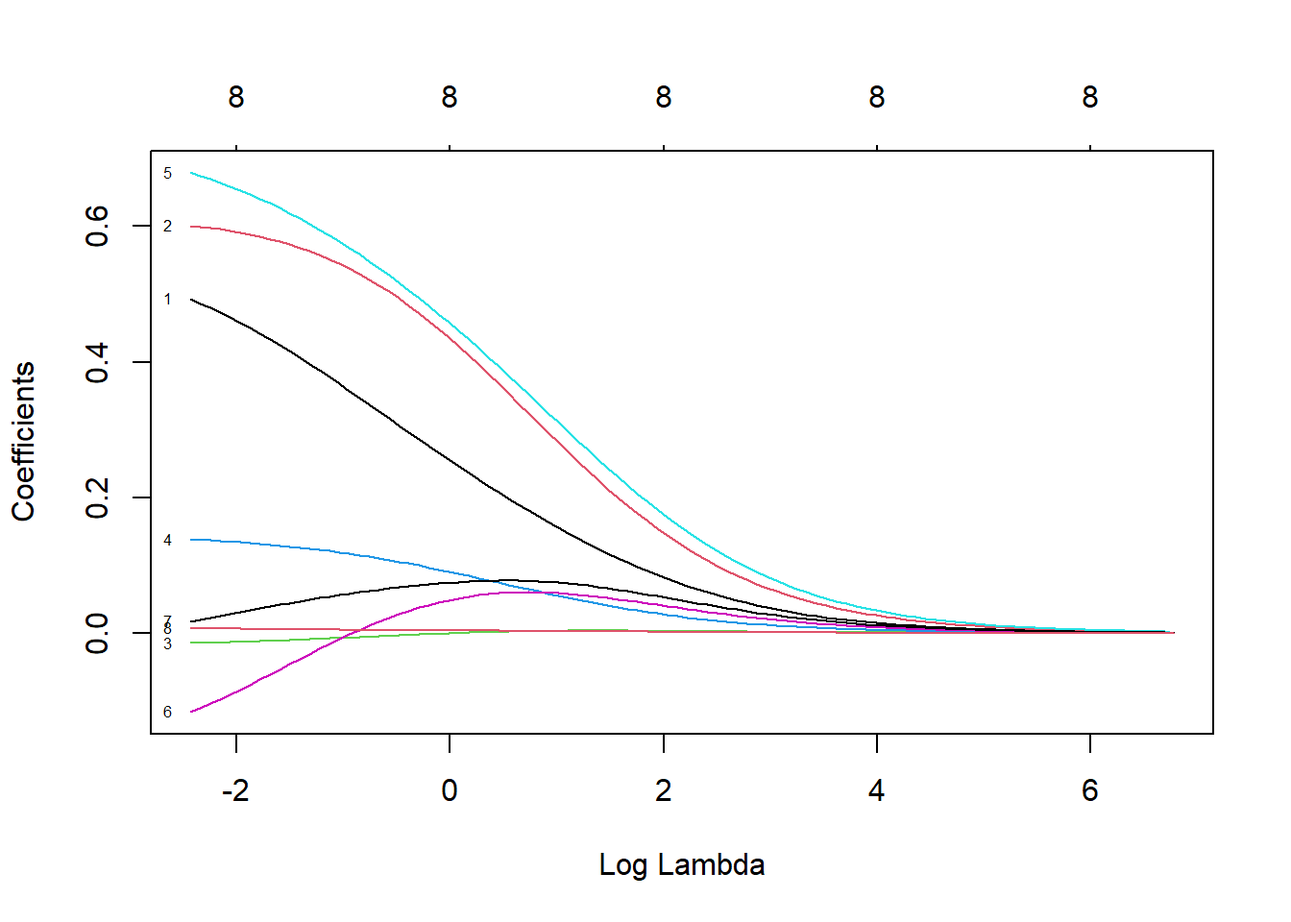
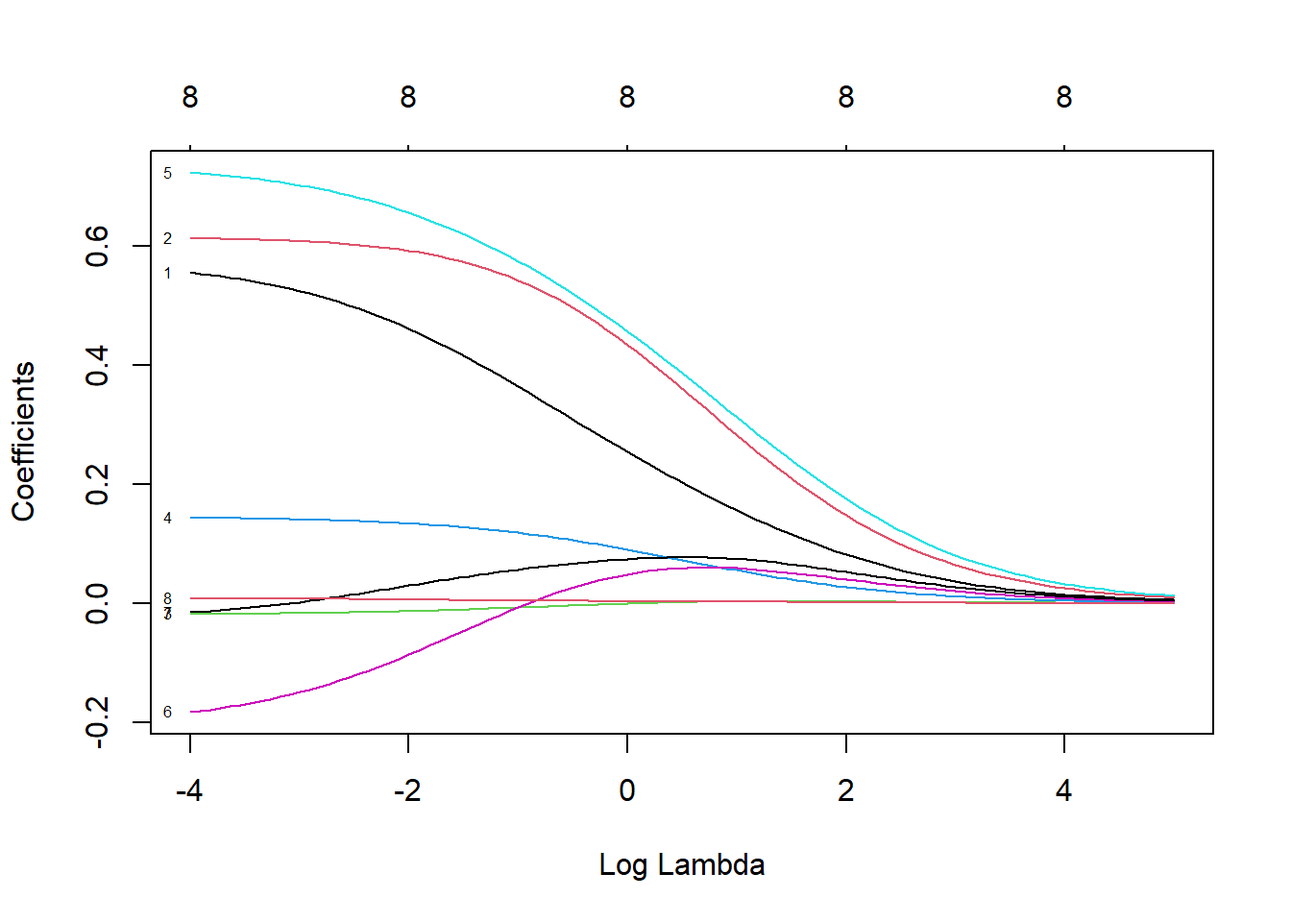
Updated chapter 3, sans 3.4

diff --git a/docs/linear-model-selection-regularisation.html b/docs/linear-model-selection-regularisation.html
@@ -264,7 +264,7 @@ RSS(\boldsymbol{\beta}) = \left(\boldsymbol{y} - \boldsymbol{X}\boldsymbol{\beta
 <ol start="2" style="list-style-type: decimal">
 <li>Stepwise selection</li>
 </ol>
-<p>Starting with either the null (forward stepwise) or saturated (backward stepwise) model, predictors are sequentially added or removed respectively according to some improvement metric. Once can also apply a hybrid method, which considers both adding and removing a variable at each step.</p>
+<p>Starting with either the null (forward stepwise) or saturated (backward stepwise) model, predictors are sequentially added or removed respectively according to some improvement metric. One can also apply a hybrid method, which considers both adding and removing a variable at each step.</p>
 <p>Typically, either Mallow’s <span class="math inline">\(C_p\)</span>, AIC, BIC, or adjusted <span class="math inline">\(R^2\)</span> is used for model comparison in subset selection.</p>
 <p>Because subset selection is a discrete process, with variables either retained or discarded, it often exhibits high variance, thereby failing to reduce the test MSE. <strong>Regularisation</strong> offers a more continuous, general-purpose and usually quicker method of controlling model complexity.</p>
 <p>Note that although the linear model is used here to illustrate the theory of regularisation, it can be applied to any parametric model.</p>
@@ -307,7 +307,7 @@ RSS(\lambda) = \left(\boldsymbol{y} - \boldsymbol{X}\boldsymbol{\beta} \right)&#
 <div id="example-2-prostate-cancer" class="section level3 hasAnchor" number="3.2.2">
 <h3><span class="header-section-number">3.2.2</span> Example 2 – Prostate Cancer<a href="linear-model-selection-regularisation.html#example-2-prostate-cancer" class="anchor-section" aria-label="Anchor link to header"></a></h3>
 <p>This dataset formed part of the now retired ElemStatLearn R package; it’s details can be found <a href="https://rdrr.io/cran/ElemStatLearn/man/prostate.html#heading-5">here</a>. The goal is to model the (log) prostate-specific antigen (lpsa) for men who were about to receive a radical prostatectomy, based on eigth clinical measurements. The data only contain 97 observations, 30 of which are set aside for testing purposes.</p>
-<p>Looking at the correlation between the features, we see that all the features are positively correlated with the response variable, ranging from weak to strong correlation. We also observe some strong correlation between features, which could be of concern for a regression model. <strong>Note</strong>! <em>svi</em> and <em>gleason</em> are actually binary and ordinal variables respectively, but we will treat them as numeric for the sake of simplicity in this illustration.</p>
+<p>Looking at the correlation between the features, we see that all the features are positively correlated with the response variable, ranging from weak to strong correlation. We also observe some strong correlation between features, which could be of concern for a regression model. <strong>Note</strong>! <span class="math inline">\(\texttt{svi}\)</span> and <span class="math inline">\(\texttt{gleason}\)</span> are actually binary and ordinal variables respectively, but we will treat them as numeric for the sake of simplicity in this illustration.</p>
 <div class="sourceCode" id="cb9"><pre class="sourceCode r"><code class="sourceCode r"><span id="cb9-1"><a href="linear-model-selection-regularisation.html#cb9-1" aria-hidden="true" tabindex="-1"></a><span class="fu">library</span>(corrplot) <span class="co">#For correlation plot</span></span>
 <span id="cb9-2"><a href="linear-model-selection-regularisation.html#cb9-2" aria-hidden="true" tabindex="-1"></a></span>
 <span id="cb9-3"><a href="linear-model-selection-regularisation.html#cb9-3" aria-hidden="true" tabindex="-1"></a>dat_pros <span class="ot">&lt;-</span> <span class="fu">read.csv</span>(<span class="st">&#39;data/prostate.csv&#39;</span>)</span>
@@ -317,8 +317,8 @@ RSS(\lambda) = \left(\boldsymbol{y} - \boldsymbol{X}\boldsymbol{\beta} \right)&#
 <span id="cb9-7"><a href="linear-model-selection-regularisation.html#cb9-7" aria-hidden="true" tabindex="-1"></a>test_pros <span class="ot">&lt;-</span> dat_pros[<span class="sc">!</span>dat_pros<span class="sc">$</span>train, <span class="sc">-</span><span class="dv">10</span>]</span>
 <span id="cb9-8"><a href="linear-model-selection-regularisation.html#cb9-8" aria-hidden="true" tabindex="-1"></a></span>
 <span id="cb9-9"><a href="linear-model-selection-regularisation.html#cb9-9" aria-hidden="true" tabindex="-1"></a><span class="fu">corrplot</span>(<span class="fu">cor</span>(train_pros), <span class="at">method =</span> <span class="st">&#39;number&#39;</span>, <span class="at">type =</span> <span class="st">&#39;upper&#39;</span>)</span></code></pre></div>
-<div class="figure" style="text-align: center"><span style="display:block;" id="fig:unnamed-chunk-7"></span>
-<img src="figs/unnamed-chunk-7-1.png" alt="Correlations of all variables in the prostate cancer data" width="672" />
+<div class="figure" style="text-align: center"><span style="display:block;" id="fig:unnamed-chunk-8"></span>
+<img src="figs/unnamed-chunk-8-1.png" alt="Correlations of all variables in the prostate cancer data" width="672" />
 <p class="caption">
 Figure 3.1: Correlations of all variables in the prostate cancer data
 </p>
@@ -340,7 +340,7 @@ Figure 3.1: Correlations of all variables in the prostate cancer data
 <span id="cb10-14"><a href="linear-model-selection-regularisation.html#cb10-14" aria-hidden="true" tabindex="-1"></a>  <span class="fu">kable</span>(<span class="at">digits =</span> <span class="dv">2</span>, <span class="at">caption =</span> <span class="st">&#39;Saturated linear model fitted to the prostate cancer dataset (features standardised)&#39;</span>)</span></code></pre></div>
 <table>
 <caption>
-<span id="tab:unnamed-chunk-8">Table 3.1: </span>Saturated linear model fitted to the prostate cancer dataset (features standardised)
+<span id="tab:unnamed-chunk-9">Table 3.1: </span>Saturated linear model fitted to the prostate cancer dataset (features standardised)
 </caption>
 <thead>
 <tr>
@@ -517,11 +517,12 @@ pgg45
 </tr>
 </tbody>
 </table>
-<p>The features <em>gleason</em>, <em>age</em>, and possibly <em>pgg45</em> and <em>lcp</em> are non-significant in this model, although note that these variables in particular were highly correlated with each other. This example also illustrates the adverse effect that this multicollinearity can have on a regression model. Even though <em>lcp</em> was observed to have a fairly strong positive linear relationship with the response variable (<span class="math inline">\(r = 0.49\)</span>, third highest of all features), the coefficient estimate is in fact <strong>negative</strong>, relatively significantly (p = 0.07)! Likewise, even though <em>age</em> is positively correlated with <em>lpsa</em> (<span class="math inline">\(r = 0.23\)</span>), its coefficient estimate is negative.</p>
+<p>The features <span class="math inline">\(\texttt{gleason}\)</span>, <span class="math inline">\(\texttt{age}\)</span>, and possibly <span class="math inline">\(\texttt{pgg45}\)</span> and <span class="math inline">\(\texttt{lcp}\)</span> are non-significant in this model, although note that these variables in particular were highly correlated with each other. This example also illustrates the adverse effect that this multicollinearity can have on a regression model. Even though <span class="math inline">\(\texttt{lcp}\)</span> was observed to have a fairly strong positive linear relationship with the response variable (<span class="math inline">\(r = 0.49\)</span>, third highest of all features), the coefficient estimate is in fact <strong>negative</strong>, relatively significantly (p = 0.07)! Likewise, even though <span class="math inline">\(\texttt{age}\)</span> is positively correlated with <span class="math inline">\(\texttt{lpsa}\)</span> (<span class="math inline">\(r = 0.23\)</span>), its coefficient estimate is negative.</p>
 <p>Let us now apply <span class="math inline">\(L_2\)</span> regularisation using the <code>glmnet</code> package in R. See section <a href="linear-model-selection-regularisation.html#elastic-net">3.3</a> for the discussion of the <span class="math inline">\(\alpha\)</span> parameter. For now, note that <span class="math inline">\(\alpha = 0\)</span> corresponds to ridge regression.</p>
 <div class="sourceCode" id="cb11"><pre class="sourceCode r"><code class="sourceCode r"><span id="cb11-1"><a href="linear-model-selection-regularisation.html#cb11-1" aria-hidden="true" tabindex="-1"></a><span class="fu">library</span>(glmnet)</span>
-<span id="cb11-2"><a href="linear-model-selection-regularisation.html#cb11-2" aria-hidden="true" tabindex="-1"></a>ridge <span class="ot">&lt;-</span> <span class="fu">glmnet</span>(x, y, <span class="at">alpha =</span> <span class="dv">0</span>, <span class="at">standardize =</span> T)</span>
-<span id="cb11-3"><a href="linear-model-selection-regularisation.html#cb11-3" aria-hidden="true" tabindex="-1"></a><span class="fu">plot</span>(ridge, <span class="at">xvar =</span> <span class="st">&#39;lambda&#39;</span>, <span class="at">label =</span> T)</span></code></pre></div>
+<span id="cb11-2"><a href="linear-model-selection-regularisation.html#cb11-2" aria-hidden="true" tabindex="-1"></a>ridge <span class="ot">&lt;-</span> <span class="fu">glmnet</span>(x, y, <span class="at">alpha =</span> <span class="dv">0</span>, <span class="at">standardize =</span> T,</span>
+<span id="cb11-3"><a href="linear-model-selection-regularisation.html#cb11-3" aria-hidden="true" tabindex="-1"></a>                <span class="at">lambda =</span> <span class="fu">exp</span>(<span class="fu">seq</span>(<span class="sc">-</span><span class="dv">4</span>, <span class="dv">5</span>, <span class="at">length.out =</span> <span class="dv">100</span>)))</span>
+<span id="cb11-4"><a href="linear-model-selection-regularisation.html#cb11-4" aria-hidden="true" tabindex="-1"></a><span class="fu">plot</span>(ridge, <span class="at">xvar =</span> <span class="st">&#39;lambda&#39;</span>, <span class="at">label =</span> T)</span></code></pre></div>
 <div class="figure" style="text-align: center"><span style="display:block;" id="fig:ridge-coeffs"></span>
 <img src="figs/ridge-coeffs-1.png" alt="Coefficient profiles for ridge regression on the prostate cancer dataset" width="672" />
 <p class="caption">
@@ -529,7 +530,7 @@ Figure 3.2: Coefficient profiles for ridge regression on the prostate cancer dat
 </p>
 </div>
 <p>Here we see how the coefficients vary as <span class="math inline">\(\log(\lambda)\)</span> is increased, whilst the labels at the top indicate the number of nonzero coefficients for various values of <span class="math inline">\(\log(\lambda)\)</span>. Note that none of the coefficients actually equal zero, illustrating that ridge regression does not necessarily perform variable selection per se.</p>
-<p>In Figure <a href="linear-model-selection-regularisation.html#fig:ridge-coeffs">3.2</a> we observe that the initially negative coefficient for <em>lcp</em> <span class="math inline">\((\beta_6)\)</span> becomes both positive and more significant, relative to the other predictors. Therefore, the notion of “coefficients shrinking towards zero” is a slight misnomer, or perhaps an oversimplification of the effect <span class="math inline">\(L_2\)</span> regularisation has. Eventually, as <span class="math inline">\(\lambda \to \infty\)</span> (or, equivalently, <span class="math inline">\(\tau \to 0\)</span> as shown in <a href="linear-model-selection-regularisation.html#eq:bridget">(3.8)</a>), all coefficients will indeed be forced towards zero. However, the ideal model will usually correspond to a level of <span class="math inline">\(\lambda\)</span> that allows stronger predictors to be more prominent by diminishing the effect of their correlates.</p>
+<p>In Figure <a href="linear-model-selection-regularisation.html#fig:ridge-coeffs">3.2</a> we observe that the initially negative coefficient for <span class="math inline">\(\texttt{lcp}\)</span> <span class="math inline">\((\beta_6)\)</span> becomes both positive and more significant, relative to the other predictors. Therefore, the notion of “coefficients shrinking towards zero” is a slight misnomer, or perhaps an oversimplification of the effect <span class="math inline">\(L_2\)</span> regularisation has. Eventually, as <span class="math inline">\(\lambda \to \infty\)</span> (or, equivalently, <span class="math inline">\(\tau \to 0\)</span> as shown in <a href="linear-model-selection-regularisation.html#eq:bridget">(3.8)</a>), all coefficients will indeed be forced towards zero. However, the ideal model will usually correspond to a level of <span class="math inline">\(\lambda\)</span> that allows stronger predictors to be more prominent by diminishing the effect of their correlates.</p>
 <p>So, how do we determine the appropriate level of <span class="math inline">\(\lambda\)</span>? By viewing this tuning parameter as a proxy for complexity and applying the same approach as in Chapter 2, we can use CV with the MSE as loss function to identify optimal complexity.</p>
 <div class="sourceCode" id="cb12"><pre class="sourceCode r"><code class="sourceCode r"><span id="cb12-1"><a href="linear-model-selection-regularisation.html#cb12-1" aria-hidden="true" tabindex="-1"></a><span class="co">#Apply 10-fold CV</span></span>
 <span id="cb12-2"><a href="linear-model-selection-regularisation.html#cb12-2" aria-hidden="true" tabindex="-1"></a><span class="fu">set.seed</span>(<span class="dv">1</span>)</span>
@@ -537,8 +538,7 @@ Figure 3.2: Coefficient profiles for ridge regression on the prostate cancer dat
 <span id="cb12-4"><a href="linear-model-selection-regularisation.html#cb12-4" aria-hidden="true" tabindex="-1"></a>                      <span class="at">alpha =</span> <span class="dv">0</span>, <span class="at">nfolds =</span> <span class="dv">10</span>, <span class="at">type.measure =</span> <span class="st">&#39;mse&#39;</span>, <span class="at">standardise =</span> T,</span>
 <span id="cb12-5"><a href="linear-model-selection-regularisation.html#cb12-5" aria-hidden="true" tabindex="-1"></a>                      <span class="at">lambda =</span> <span class="fu">exp</span>(<span class="fu">seq</span>(<span class="sc">-</span><span class="dv">4</span>, <span class="dv">5</span>, <span class="at">length.out =</span> <span class="dv">100</span>))) <span class="co">#Default lambda range doesn&#39;t cover minimum</span></span>
 <span id="cb12-6"><a href="linear-model-selection-regularisation.html#cb12-6" aria-hidden="true" tabindex="-1"></a><span class="fu">plot</span>(ridge_cv)</span>
-<span id="cb12-7"><a href="linear-model-selection-regularisation.html#cb12-7" aria-hidden="true" tabindex="-1"></a></span>
-<span id="cb12-8"><a href="linear-model-selection-regularisation.html#cb12-8" aria-hidden="true" tabindex="-1"></a><span class="fu">abline</span>(<span class="at">h =</span> ridge_cv<span class="sc">$</span>cvup[<span class="fu">which.min</span>(ridge_cv<span class="sc">$</span>cvm)], <span class="at">lty =</span> <span class="dv">2</span>)</span></code></pre></div>
+<span id="cb12-7"><a href="linear-model-selection-regularisation.html#cb12-7" aria-hidden="true" tabindex="-1"></a><span class="fu">abline</span>(<span class="at">h =</span> ridge_cv<span class="sc">$</span>cvup[<span class="fu">which.min</span>(ridge_cv<span class="sc">$</span>cvm)], <span class="at">lty =</span> <span class="dv">2</span>)</span></code></pre></div>
 <div class="figure" style="text-align: center"><span style="display:block;" id="fig:ridge-cv"></span>
 <img src="figs/ridge-cv-1.png" alt="10-fold CV MSEs as a function of $\log(\lambda)$ for ridge regression applied to the prostate cancer dataset" width="672" />
 <p class="caption">
@@ -546,7 +546,7 @@ Figure 3.3: 10-fold CV MSEs as a function of <span class="math inline">\(\log(\l
 </p>
 </div>
 <p>Figure <a href="linear-model-selection-regularisation.html#fig:ridge-cv">3.3</a> shows the CV errors (red dots), with the error bars indicating the extent of dispersion of the MSE across folds, the default display being one standard deviation above and below the average MSE. Two values of the tuning parameter are highlighted: the one yielding the minimum CV error (<code>lambda.min</code>), and the one corresponding to the most regularised model such that the error is within one standard error of the minimum (<code>lambda.1se</code>), which has been indicated on this plot with the horizontal dashed line.</p>
-<p>The choice of <span class="math inline">\(\lambda\)</span> depends on various factors, including the size of the data set, the length of the resultant error bars, and the profile of the coefficient estimates. In Figure <a href="linear-model-selection-regularisation.html#fig:ridge-coeffs">3.2</a> we saw that a more “reasonable” representation of the coefficients is achieved when <span class="math inline">\(\log(\lambda)\)</span> is closer to zero, rather than at the minimum CV MSE. Showing this explicitly, below we see that the coefficients corresponding to <code>lambda.min</code> (left) still preserves the contradictory coefficient sign for <em>lcp</em>, whereas <code>lambda.1se</code> (right) rectifies this whilst mostly maintaining the overall relative importance across the features, hence we will use the latter.</p>
+<p>The choice of <span class="math inline">\(\lambda\)</span> depends on various factors, including the size of the data set, the length of the resultant error bars, and the profile of the coefficient estimates. In Figure <a href="linear-model-selection-regularisation.html#fig:ridge-coeffs">3.2</a> we saw that a more “reasonable” representation of the coefficients is achieved when <span class="math inline">\(\log(\lambda)\)</span> is closer to zero, rather than at the minimum CV MSE. Showing this explicitly, below we see that the coefficients corresponding to <code>lambda.min</code> (left) still preserves the contradictory coefficient sign for <span class="math inline">\(\texttt{lcp}\)</span>, whereas <code>lambda.1se</code> (right) rectifies this whilst mostly maintaining the overall relative importance across the features, hence we will use the latter.</p>
 <div class="sourceCode" id="cb13"><pre class="sourceCode r"><code class="sourceCode r"><span id="cb13-1"><a href="linear-model-selection-regularisation.html#cb13-1" aria-hidden="true" tabindex="-1"></a><span class="fu">round</span>(<span class="fu">cbind</span>(<span class="fu">coef</span>(ridge_cv, <span class="at">s =</span> <span class="st">&#39;lambda.min&#39;</span>), <span class="fu">coef</span>(ridge_cv, <span class="at">s =</span> <span class="st">&#39;lambda.1se&#39;</span>)), <span class="dv">3</span>)</span></code></pre></div>
 <pre><code>## 9 x 2 sparse Matrix of class &quot;dgCMatrix&quot;
 ##                 s1     s1
@@ -559,7 +559,7 @@ Figure 3.3: 10-fold CV MSEs as a function of <span class="math inline">\(\log(\l
 ## lcp         -0.140  0.038
 ## gleason      0.007  0.071
 ## pgg45        0.008  0.004</code></pre>
-<p>Note that although some predictors have <em>almost</em> been removed, these coefficients are still nonzero. Therefore, the ridge regression will include all <span class="math inline">\(p\)</span> predictors in the final model. The CV MSE for the chosen model, which is an estimate of out-of-sample performance, is 0.645.</p>
+<p>Note that although some predictors have <em>almost</em> been removed, these coefficients are still nonzero. Therefore, the ridge regression will include all <span class="math inline">\(p\)</span> predictors in the final model. The CV MSE for the chosen model, which is an estimate of out-of-sample performance, is 0.64.</p>
 <p>Before using the ridge regression to predict values for the test set, we will first consider the lasso as an approach for variable selection.</p>
 </div>
 <div id="the-lasso-l_1" class="section level3 hasAnchor" number="3.2.3">
@@ -577,9 +577,9 @@ Figure 3.3: 10-fold CV MSEs as a function of <span class="math inline">\(\log(\l
 \end{equation}\]</span>
 <p>Again we can see that the equivalent name “<span class="math inline">\(L_1\)</span> regularisation” arises from the fact that the penalty is based on the <span class="math inline">\(L_1\)</span> norm<a href="#fn5" class="footnote-ref" id="fnref5"><sup>5</sup></a> <span class="math inline">\(||\boldsymbol{\beta}||_1 = \sum_{i=1}^p |\beta_i|\)</span>.</p>
 <p>This constraint on the regression parameters makes the solutions nonlinear in the <span class="math inline">\(y_i\)</span>, such that there is no closed form expression for <span class="math inline">\(\hat{\boldsymbol{\beta}}_L\)</span> like there is for the ridge estimate, except in the case of orthonormal covariates. Computing the lasso estimate is a quadratic programming problem, although efficient algorithms have been developed to compute the solutions as a function of <span class="math inline">\(\lambda\)</span> at the same computational cost as for ridge regression. These solutions are beyond the scope of this course.</p>
-<p>Note that if we let <span class="math inline">\(\tau &gt; \sum_{j=1}^p|\hat{\beta}^{LS}_j|\)</span>, were <span class="math inline">\(\hat{\beta}^{LS}_j\)</span> denotes the least squares estimates, then the lasso estimates are exactly equal to the least squares estimates. If, for example, <span class="math inline">\(\tau = \frac{1}{2} \sum_{j=1}^p|\hat{\beta}^{LS}_j|\)</span>, then the least squares coefficients are shrunk by 50% <strong>on average</strong>. However, the nature of the shrinkage is not obvious.</p>
+<p>Note that if we let <span class="math inline">\(\tau &gt; \sum_{j=1}^p|\hat{\beta}^{LS}_j|\)</span>, where <span class="math inline">\(\hat{\beta}^{LS}_j\)</span> denotes the least squares estimates, then the lasso estimates are exactly equal to the least squares estimates. If, for example, <span class="math inline">\(\tau = \frac{1}{2} \sum_{j=1}^p|\hat{\beta}^{LS}_j|\)</span>, then the least squares coefficients are shrunk by 50% <strong>on average</strong>. However, the nature of the shrinkage is not obvious.</p>
 <p>When comparing ridge regression with the lasso, we see that the nature of the constraints yield different trajectories for <span class="math inline">\(\hat{\boldsymbol{\beta}}\)</span> as <span class="math inline">\(\lambda\)</span> increases/<span class="math inline">\(\tau\)</span> decreases:</p>
-<div class="figure" style="text-align: center"><span style="display:block;" id="fig:unnamed-chunk-10"></span>
+<div class="figure" style="text-align: center"><span style="display:block;" id="fig:unnamed-chunk-11"></span>
 <img src="figs/L1L2contours.png" alt="Estimation picture for the lasso (left) and ridge regression (right). Shown are contours of the error and constraint functions. The solid blue areas are the constraint regions $|\beta_1| + |\beta_2| \leq \tau$ and $\beta_1^2 + \beta_2^2 \leq \tau^2$, respectively, while the red ellipses are the contours of the least squares error function. Source: @hastie2009elements, p. 71." width="80%" />
 <p class="caption">
 Figure 3.4: Estimation picture for the lasso (left) and ridge regression (right). Shown are contours of the error and constraint functions. The solid blue areas are the constraint regions <span class="math inline">\(|\beta_1| + |\beta_2| \leq \tau\)</span> and <span class="math inline">\(\beta_1^2 + \beta_2^2 \leq \tau^2\)</span>, respectively, while the red ellipses are the contours of the least squares error function. Source: <span class="citation">Hastie et al. (2009)</span>, p. 71.
@@ -599,7 +599,7 @@ Figure 3.4: Estimation picture for the lasso (left) and ridge regression (right)
 Figure 3.5: Coefficient profiles for lasso regression on the prostate cancer dataset
 </p>
 </div>
-<p>Figure <a href="linear-model-selection-regularisation.html#fig:lasso-coeffs">3.5</a> shows the coefficients shrinking and equaling zero as the regularisation penalty increases, as opposed to gradually decaying as in ridge regression, thereby performing <strong>variable selection</strong> in the process. Interestingly, here it seems that one of the first variables excluded from the model is <em>lcp</em>, although it is quite difficult to see, even for this small example where <span class="math inline">\(p=8\)</span>. In order to determine which variables should be (de)selected, we will again implement CV using the MSE as loss function.</p>
+<p>Figure <a href="linear-model-selection-regularisation.html#fig:lasso-coeffs">3.5</a> shows the coefficients shrinking and equaling zero as the regularisation penalty increases, as opposed to gradually decaying as in ridge regression, thereby performing <strong>variable selection</strong> in the process. Interestingly, here it seems that one of the first variables excluded from the model is <span class="math inline">\(\texttt{lcp}\)</span>, although it is quite difficult to see, even for this small example where <span class="math inline">\(p=8\)</span>. In order to determine which variables should be (de)selected, we will again implement CV using the MSE as loss function.</p>
 <div class="sourceCode" id="cb16"><pre class="sourceCode r"><code class="sourceCode r"><span id="cb16-1"><a href="linear-model-selection-regularisation.html#cb16-1" aria-hidden="true" tabindex="-1"></a><span class="co">#Apply 10-fold CV</span></span>
 <span id="cb16-2"><a href="linear-model-selection-regularisation.html#cb16-2" aria-hidden="true" tabindex="-1"></a><span class="fu">set.seed</span>(<span class="dv">1</span>)</span>
 <span id="cb16-3"><a href="linear-model-selection-regularisation.html#cb16-3" aria-hidden="true" tabindex="-1"></a>lasso_cv <span class="ot">&lt;-</span> <span class="fu">cv.glmnet</span>(<span class="fu">as.matrix</span>(x), y, <span class="co">#this function requires x to be a matrix</span></span>
@@ -624,7 +624,7 @@ Figure 3.6: 10-fold CV MSEs as a function of <span class="math inline">\(\log(\l
 ## lcp         .    
 ## gleason     .    
 ## pgg45       0.001</code></pre>
-<p>Once again, the CV MSE for the chosen model, is 0.645.</p>
+<p>Once again, the CV MSE for the chosen model, is 0.64.</p>
 <p>At this point, we have once again defined <span class="math inline">\(\hat{f}\)</span>, which is ultimately still a linear model with adjusted coefficient estimates. Now we can compare how the ridge and lasso models fare on the test set, which we can compare to the OLS linear model too.</p>
 <div class="sourceCode" id="cb19"><pre class="sourceCode r"><code class="sourceCode r"><span id="cb19-1"><a href="linear-model-selection-regularisation.html#cb19-1" aria-hidden="true" tabindex="-1"></a>test_y <span class="ot">&lt;-</span> test_pros[, <span class="dv">9</span>]</span>
 <span id="cb19-2"><a href="linear-model-selection-regularisation.html#cb19-2" aria-hidden="true" tabindex="-1"></a>test_x <span class="ot">&lt;-</span> <span class="fu">as.matrix</span>(test_pros[, <span class="sc">-</span><span class="dv">9</span>]) <span class="co">#need to extract just the x&#39;s for glmnet predict function</span></span>
@@ -643,13 +643,13 @@ Figure 3.6: 10-fold CV MSEs as a function of <span class="math inline">\(\log(\l
 <span id="cb19-15"><a href="linear-model-selection-regularisation.html#cb19-15" aria-hidden="true" tabindex="-1"></a>ols_mse <span class="ot">&lt;-</span> <span class="fu">round</span>(<span class="fu">mean</span>((test_y <span class="sc">-</span> ols_pred)<span class="sc">^</span><span class="dv">2</span>), <span class="dv">3</span>)</span></code></pre></div>
 <div class="sourceCode" id="cb20"><pre class="sourceCode r"><code class="sourceCode r"><span id="cb20-1"><a href="linear-model-selection-regularisation.html#cb20-1" aria-hidden="true" tabindex="-1"></a><span class="co"># Unregularised linear model</span></span>
 <span id="cb20-2"><a href="linear-model-selection-regularisation.html#cb20-2" aria-hidden="true" tabindex="-1"></a>ols_mse</span></code></pre></div>
-<pre><code>## [1] 0.549</code></pre>
+<pre><code>## [1] 0.55</code></pre>
 <div class="sourceCode" id="cb22"><pre class="sourceCode r"><code class="sourceCode r"><span id="cb22-1"><a href="linear-model-selection-regularisation.html#cb22-1" aria-hidden="true" tabindex="-1"></a><span class="co"># Ridge regression</span></span>
 <span id="cb22-2"><a href="linear-model-selection-regularisation.html#cb22-2" aria-hidden="true" tabindex="-1"></a>ridge_mse</span></code></pre></div>
-<pre><code>## [1] 0.509</code></pre>
+<pre><code>## [1] 0.51</code></pre>
 <div class="sourceCode" id="cb24"><pre class="sourceCode r"><code class="sourceCode r"><span id="cb24-1"><a href="linear-model-selection-regularisation.html#cb24-1" aria-hidden="true" tabindex="-1"></a><span class="co"># The lasso</span></span>
 <span id="cb24-2"><a href="linear-model-selection-regularisation.html#cb24-2" aria-hidden="true" tabindex="-1"></a>lasso_mse</span></code></pre></div>
-<pre><code>## [1] 0.454</code></pre>
+<pre><code>## [1] 0.45</code></pre>
 <p>The final results show that the unregularised linear model performed worst, and the lasso performed best in this example. It should be noted that the accuracy of these predictions in context of the application should always be evaluated in consultation with the subject experts, i.e. the oncologist in this instance.</p>
 </div>
 </div>
@@ -661,8 +661,8 @@ Figure 3.6: 10-fold CV MSEs as a function of <span class="math inline">\(\log(\l
 \tag{3.13}
 \end{equation}\]</span></p>
 <p>Note that the <span class="math inline">\(\alpha\)</span> terms have actually been swapped around here in order to correspond with the application in <code>glmnet</code>. The elastic-net selects variables like the lasso, and shrinks together the coefficients of correlated predictors like ridge.</p>
-<p>Of course, now there are two parameters to tune simultaneously, and the choice of <span class="math inline">\(\alpha\)</span> influences the range of <span class="math inline">\(\lambda\)</span> value we should consider searching over – compare the x-axis ranges of Figures <a href="linear-model-selection-regularisation.html#fig:ridge-cv">3.3</a> and <a href="linear-model-selection-regularisation.html#fig:lasso-cv">3.6</a>.</p>
-<p>At time of writing, to the author’s knowledge, there is no R package on CRAN that allows one to automatically search over both tuning parameters, or <strong>hyperparameters</strong> and find the optimal combination. Therefore, there are three options:</p>
+<p>Of course, now there are two parameters to tune simultaneously, and the choice of <span class="math inline">\(\alpha\)</span> influences the range of <span class="math inline">\(\lambda\)</span> values we should consider searching over – compare the x-axis ranges of Figures <a href="linear-model-selection-regularisation.html#fig:ridge-cv">3.3</a> and <a href="linear-model-selection-regularisation.html#fig:lasso-cv">3.6</a>.</p>
+<p>At time of writing, to the author’s knowledge, there is no R package specifically for elastic-net on CRAN that allows one to automatically search over both tuning parameters, or <strong>hyperparameters</strong> and find the optimal combination. Therefore, there are three options:</p>
 <ol style="list-style-type: decimal">
 <li>Manually vary and loop across various <span class="math inline">\(\alpha\)</span> values, each time extracting the optimal <span class="math inline">\(\lambda\)</span> and identifying the lowest overall CV MSE.</li>
 <li>Use a non-CRAN package that has already written up exactly this procedure, for example <a href="https://github.com/hongooi73/glmnetUtils">glmnetUtils</a>.</li>
@@ -673,6 +673,7 @@ Figure 3.6: 10-fold CV MSEs as a function of <span class="math inline">\(\log(\l
 <div id="homework-exercises-1" class="section level2 hasAnchor" number="3.4">
 <h2><span class="header-section-number">3.4</span> Homework exercises<a href="linear-model-selection-regularisation.html#homework-exercises-1" class="anchor-section" aria-label="Anchor link to header"></a></h2>
 <ol style="list-style-type: decimal">
+<li>Show that the penalised RSS for the ridge regression yields <span class="math inline">\(\hat{\boldsymbol{\beta}} = \left(\boldsymbol{X}&#39;\boldsymbol{X} + \lambda\boldsymbol{I}\right)^{-1}\boldsymbol{X}\boldsymbol{y}\)</span>.</li>
 <li>Apply elastic-net regression to the prostate cancer dataset using one of the suggested methods in section <a href="linear-model-selection-regularisation.html#elastic-net">3.3</a>.</li>
 </ol>
 

diff --git a/docs/supervised-learning.html b/docs/supervised-learning.html
@@ -290,8 +290,8 @@ E\left\{\left[\hat{f} - E(\hat{f})\right] \left[E(\hat{f}) - f\right]\right\} &a
 <span id="cb1-19"><a href="supervised-learning.html#cb1-19" aria-hidden="true" tabindex="-1"></a>  <span class="fu">legend</span>(<span class="st">&#39;bottomright&#39;</span>, <span class="fu">c</span>(<span class="st">&#39;f(x) - True&#39;</span>, <span class="fu">expression</span>(<span class="fu">hat</span>(f)(x) <span class="sc">~</span> <span class="st">&#39;- Cubic spline&#39;</span>)), </span>
 <span id="cb1-20"><a href="supervised-learning.html#cb1-20" aria-hidden="true" tabindex="-1"></a>         <span class="at">col =</span> <span class="fu">c</span>(<span class="st">&#39;black&#39;</span>, <span class="st">&#39;blue&#39;</span>), <span class="at">lty =</span> <span class="dv">1</span>, <span class="at">lwd =</span> <span class="dv">2</span>)</span>
 <span id="cb1-21"><a href="supervised-learning.html#cb1-21" aria-hidden="true" tabindex="-1"></a>}</span></code></pre></div>
-<div class="figure" style="text-align: center"><span style="display:block;" id="fig:unnamed-chunk-3"></span>
-<img src="figs/unnamed-chunk-3-.gif" alt="Cubic splines with varying degrees of freedom fitted to a sample of 100 datapoints drawn from $Y = X + 2\cos(5X) + \epsilon$, with $\epsilon \sim N(0, 2)$." width="672" />
+<div class="figure" style="text-align: center"><span style="display:block;" id="fig:unnamed-chunk-4"></span>
+<img src="figs/unnamed-chunk-4-.gif" alt="Cubic splines with varying degrees of freedom fitted to a sample of 100 datapoints drawn from $Y = X + 2\cos(5X) + \epsilon$, with $\epsilon \sim N(0, 2)$." width="672" />
 <p class="caption">
 Figure 2.1: Cubic splines with varying degrees of freedom fitted to a sample of 100 datapoints drawn from <span class="math inline">\(Y = X + 2\cos(5X) + \epsilon\)</span>, with <span class="math inline">\(\epsilon \sim N(0, 2)\)</span>.
 </p>
@@ -456,8 +456,8 @@ Therefore, larger <span class="math inline">\(k\)</span> implies larger variatio
 <span id="cb7-37"><a href="supervised-learning.html#cb7-37" aria-hidden="true" tabindex="-1"></a>  <span class="fu">lines</span>(<span class="dv">1</span><span class="sc">:</span>k, train_err, <span class="st">&#39;b&#39;</span>, <span class="at">pch =</span> <span class="dv">16</span>, <span class="at">lwd =</span> <span class="dv">2</span>)</span>
 <span id="cb7-38"><a href="supervised-learning.html#cb7-38" aria-hidden="true" tabindex="-1"></a>  <span class="fu">legend</span>(<span class="st">&#39;topright&#39;</span>, <span class="fu">c</span>(<span class="st">&#39;Training&#39;</span>, <span class="st">&#39;Validation&#39;</span>), <span class="at">col =</span> <span class="fu">c</span>(<span class="st">&#39;black&#39;</span>, <span class="st">&#39;red&#39;</span>), <span class="at">lwd =</span> <span class="dv">2</span>)</span>
 <span id="cb7-39"><a href="supervised-learning.html#cb7-39" aria-hidden="true" tabindex="-1"></a>}</span></code></pre></div>
-<div class="figure" style="text-align: center"><span style="display:block;" id="fig:unnamed-chunk-5"></span>
-<img src="figs/unnamed-chunk-5-.gif" alt="Left: The training (black) and validation (grey) portions of the dataset across 10 folds, with the fitted cubic spline with 8 degrees of freedom in blue. Right: The resulting training (black) and validation (red) MSEs across 10 folds." width="150%" />
+<div class="figure" style="text-align: center"><span style="display:block;" id="fig:unnamed-chunk-6"></span>
+<img src="figs/unnamed-chunk-6-.gif" alt="Left: The training (black) and validation (grey) portions of the dataset across 10 folds, with the fitted cubic spline with 8 degrees of freedom in blue. Right: The resulting training (black) and validation (red) MSEs across 10 folds." width="150%" />
 <p class="caption">
 Figure 2.3: Left: The training (black) and validation (grey) portions of the dataset across 10 folds, with the fitted cubic spline with 8 degrees of freedom in blue. Right: The resulting training (black) and validation (red) MSEs across 10 folds.
 </p>
@@ -486,8 +486,8 @@ Figure 2.3: Left: The training (black) and validation (grey) portions of the dat
 <span id="cb8-21"><a href="supervised-learning.html#cb8-21" aria-hidden="true" tabindex="-1"></a><span class="fu">legend</span>(<span class="st">&#39;bottomright&#39;</span>, <span class="fu">c</span>(<span class="st">&#39;CV MSE&#39;</span>, <span class="st">&#39;True test MSE&#39;</span>), <span class="at">col =</span> <span class="fu">c</span>(<span class="st">&#39;gray&#39;</span>, <span class="st">&#39;darkred&#39;</span>), <span class="at">lty =</span> <span class="dv">1</span>, <span class="at">lwd =</span> <span class="dv">2</span>)</span>
 <span id="cb8-22"><a href="supervised-learning.html#cb8-22" aria-hidden="true" tabindex="-1"></a><span class="fu">abline</span>(<span class="at">v =</span> dofs[<span class="fu">which.min</span>(results<span class="sc">$</span>MSE)], <span class="at">lty =</span> <span class="dv">3</span>)</span>
 <span id="cb8-23"><a href="supervised-learning.html#cb8-23" aria-hidden="true" tabindex="-1"></a><span class="fu">points</span>(dofs[<span class="fu">which.min</span>(cv_mses)], <span class="fu">min</span>(cv_mses), <span class="at">pch =</span> <span class="dv">13</span>, <span class="at">cex =</span> <span class="fl">2.5</span>, <span class="at">lwd =</span> <span class="dv">2</span>)</span></code></pre></div>
-<div class="figure" style="text-align: center"><span style="display:block;" id="fig:unnamed-chunk-6"></span>
-<img src="figs/unnamed-chunk-6-1.png" alt="10-fold cross-validation error curve (grey) for cubic splines with varying degrees of freedom, with the minimum point indicated by the crossed circle. The red line indicates the true test MSE being estimated." width="672" />
+<div class="figure" style="text-align: center"><span style="display:block;" id="fig:unnamed-chunk-7"></span>
+<img src="figs/unnamed-chunk-7-1.png" alt="10-fold cross-validation error curve (grey) for cubic splines with varying degrees of freedom, with the minimum point indicated by the crossed circle. The red line indicates the true test MSE being estimated." width="672" />
 <p class="caption">
 Figure 2.4: 10-fold cross-validation error curve (grey) for cubic splines with varying degrees of freedom, with the minimum point indicated by the crossed circle. The red line indicates the true test MSE being estimated.
 </p>

diff --git a/docs/index.html b/docs/index.html
@@ -235,7 +235,7 @@ title.innerHTML = '<img src="figs/Dept_Logo.jpg" alt="">' + title.innerHTML
 <p>The fields of statistical learning/AI/machine learning/data science/analytics/data mining/deep learning/[insert new buzzword here] are constantly evolving at a rapid pace. Although the core theory and methodology will (should) always be relevant, adaptations to the methods are regularly being developed, along with more efficient and convenient packages for implementation. Therefore, although these notes attempt to introduce you to up-to-date modern frameworks, note that these things change over time.</p>
 <p>Also note that this is by no means an exhaustive exploration of either theory, methods, or application, but it will imbue you with a skill set with which to tackle various problems and provide a solid foundation for further learning.</p>
 <p>These notes draw from various sources, with the theoretical aspects largely relying on <strong>An Introduction to Statistical Learning with Applications in R</strong> <span class="citation">(James et al., 2013)</span> and <strong>Elements of Statistical Learning</strong> <span class="citation">(Hastie et al., 2009)</span>, both of which are freely available <a href="https://www.statlearning.com/">here</a> and <a href="https://hastie.su.domains/ElemStatLearn/">here</a>, respectively.</p>
-<p><img src="figs/unnamed-chunk-2-1.png" width="672" style="display: block; margin: auto;" /></p>
+<p><img src="figs/unnamed-chunk-3-1.png" width="672" style="display: block; margin: auto;" /></p>
 <p>It is recommended that you keep the former on hand, as you will be referred to sections therein for reading. Other sources will be referenced as and when they are used.</p>
 <p>Happy learning!</p>
 
